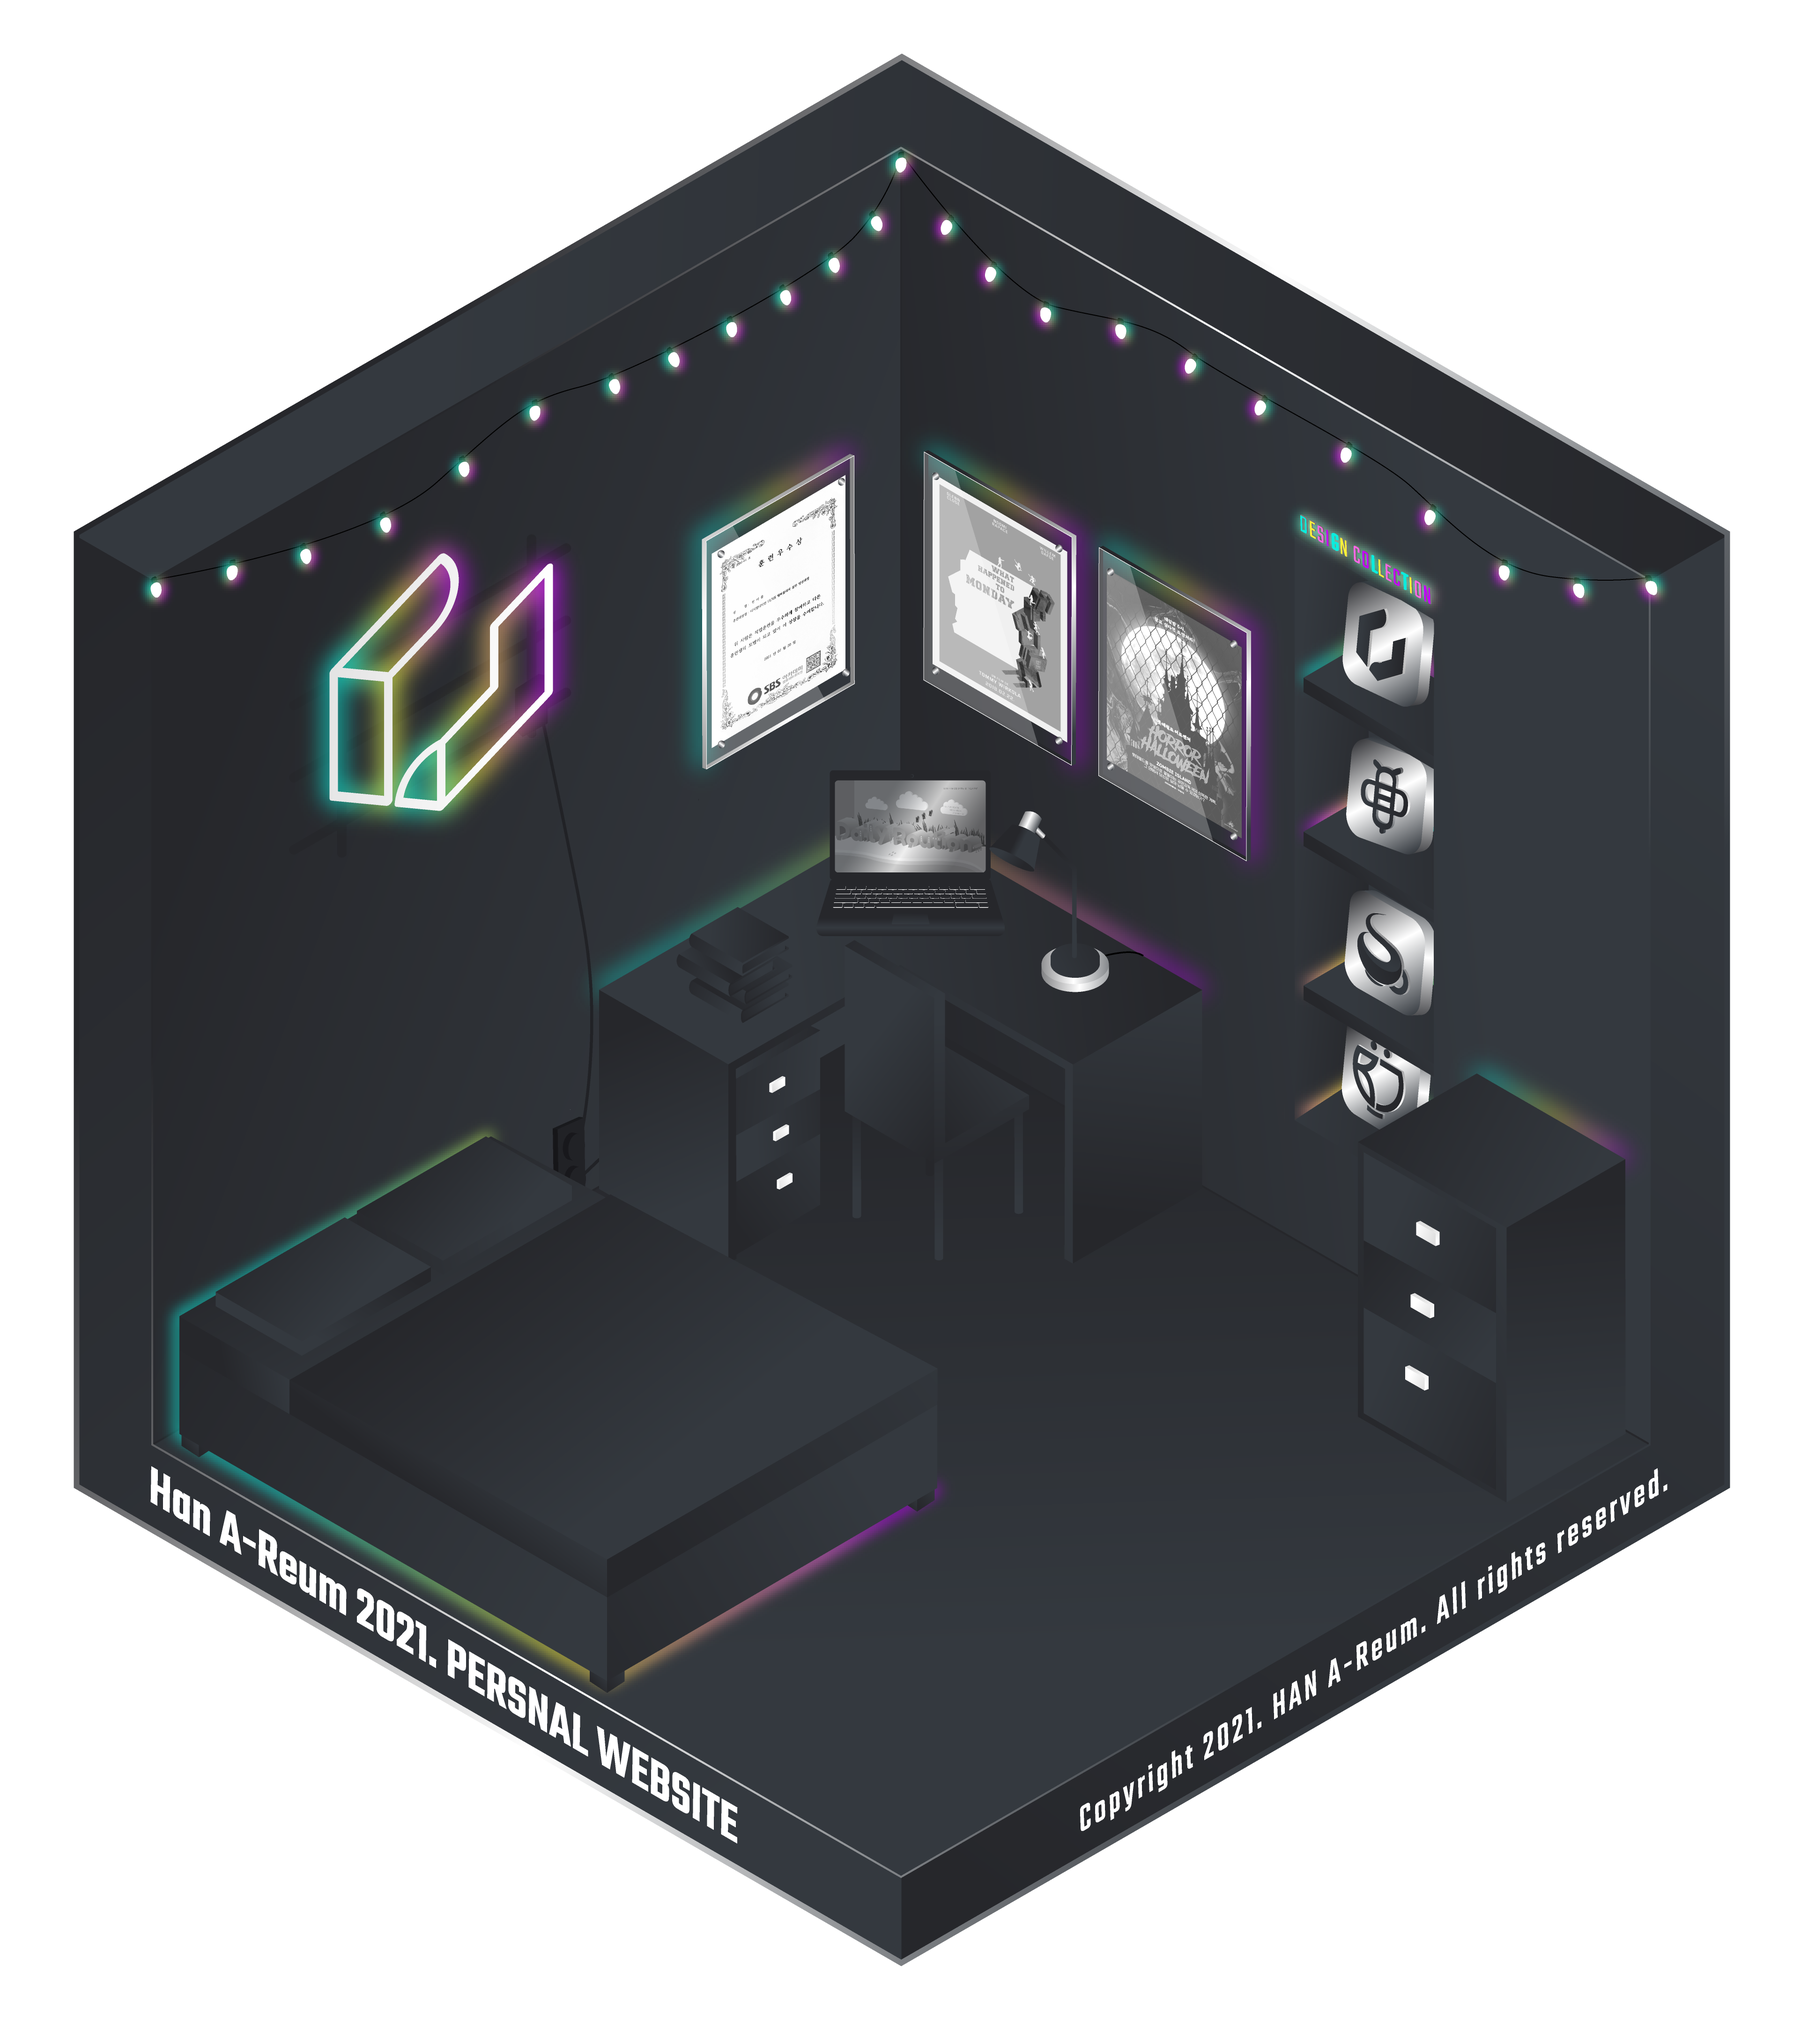
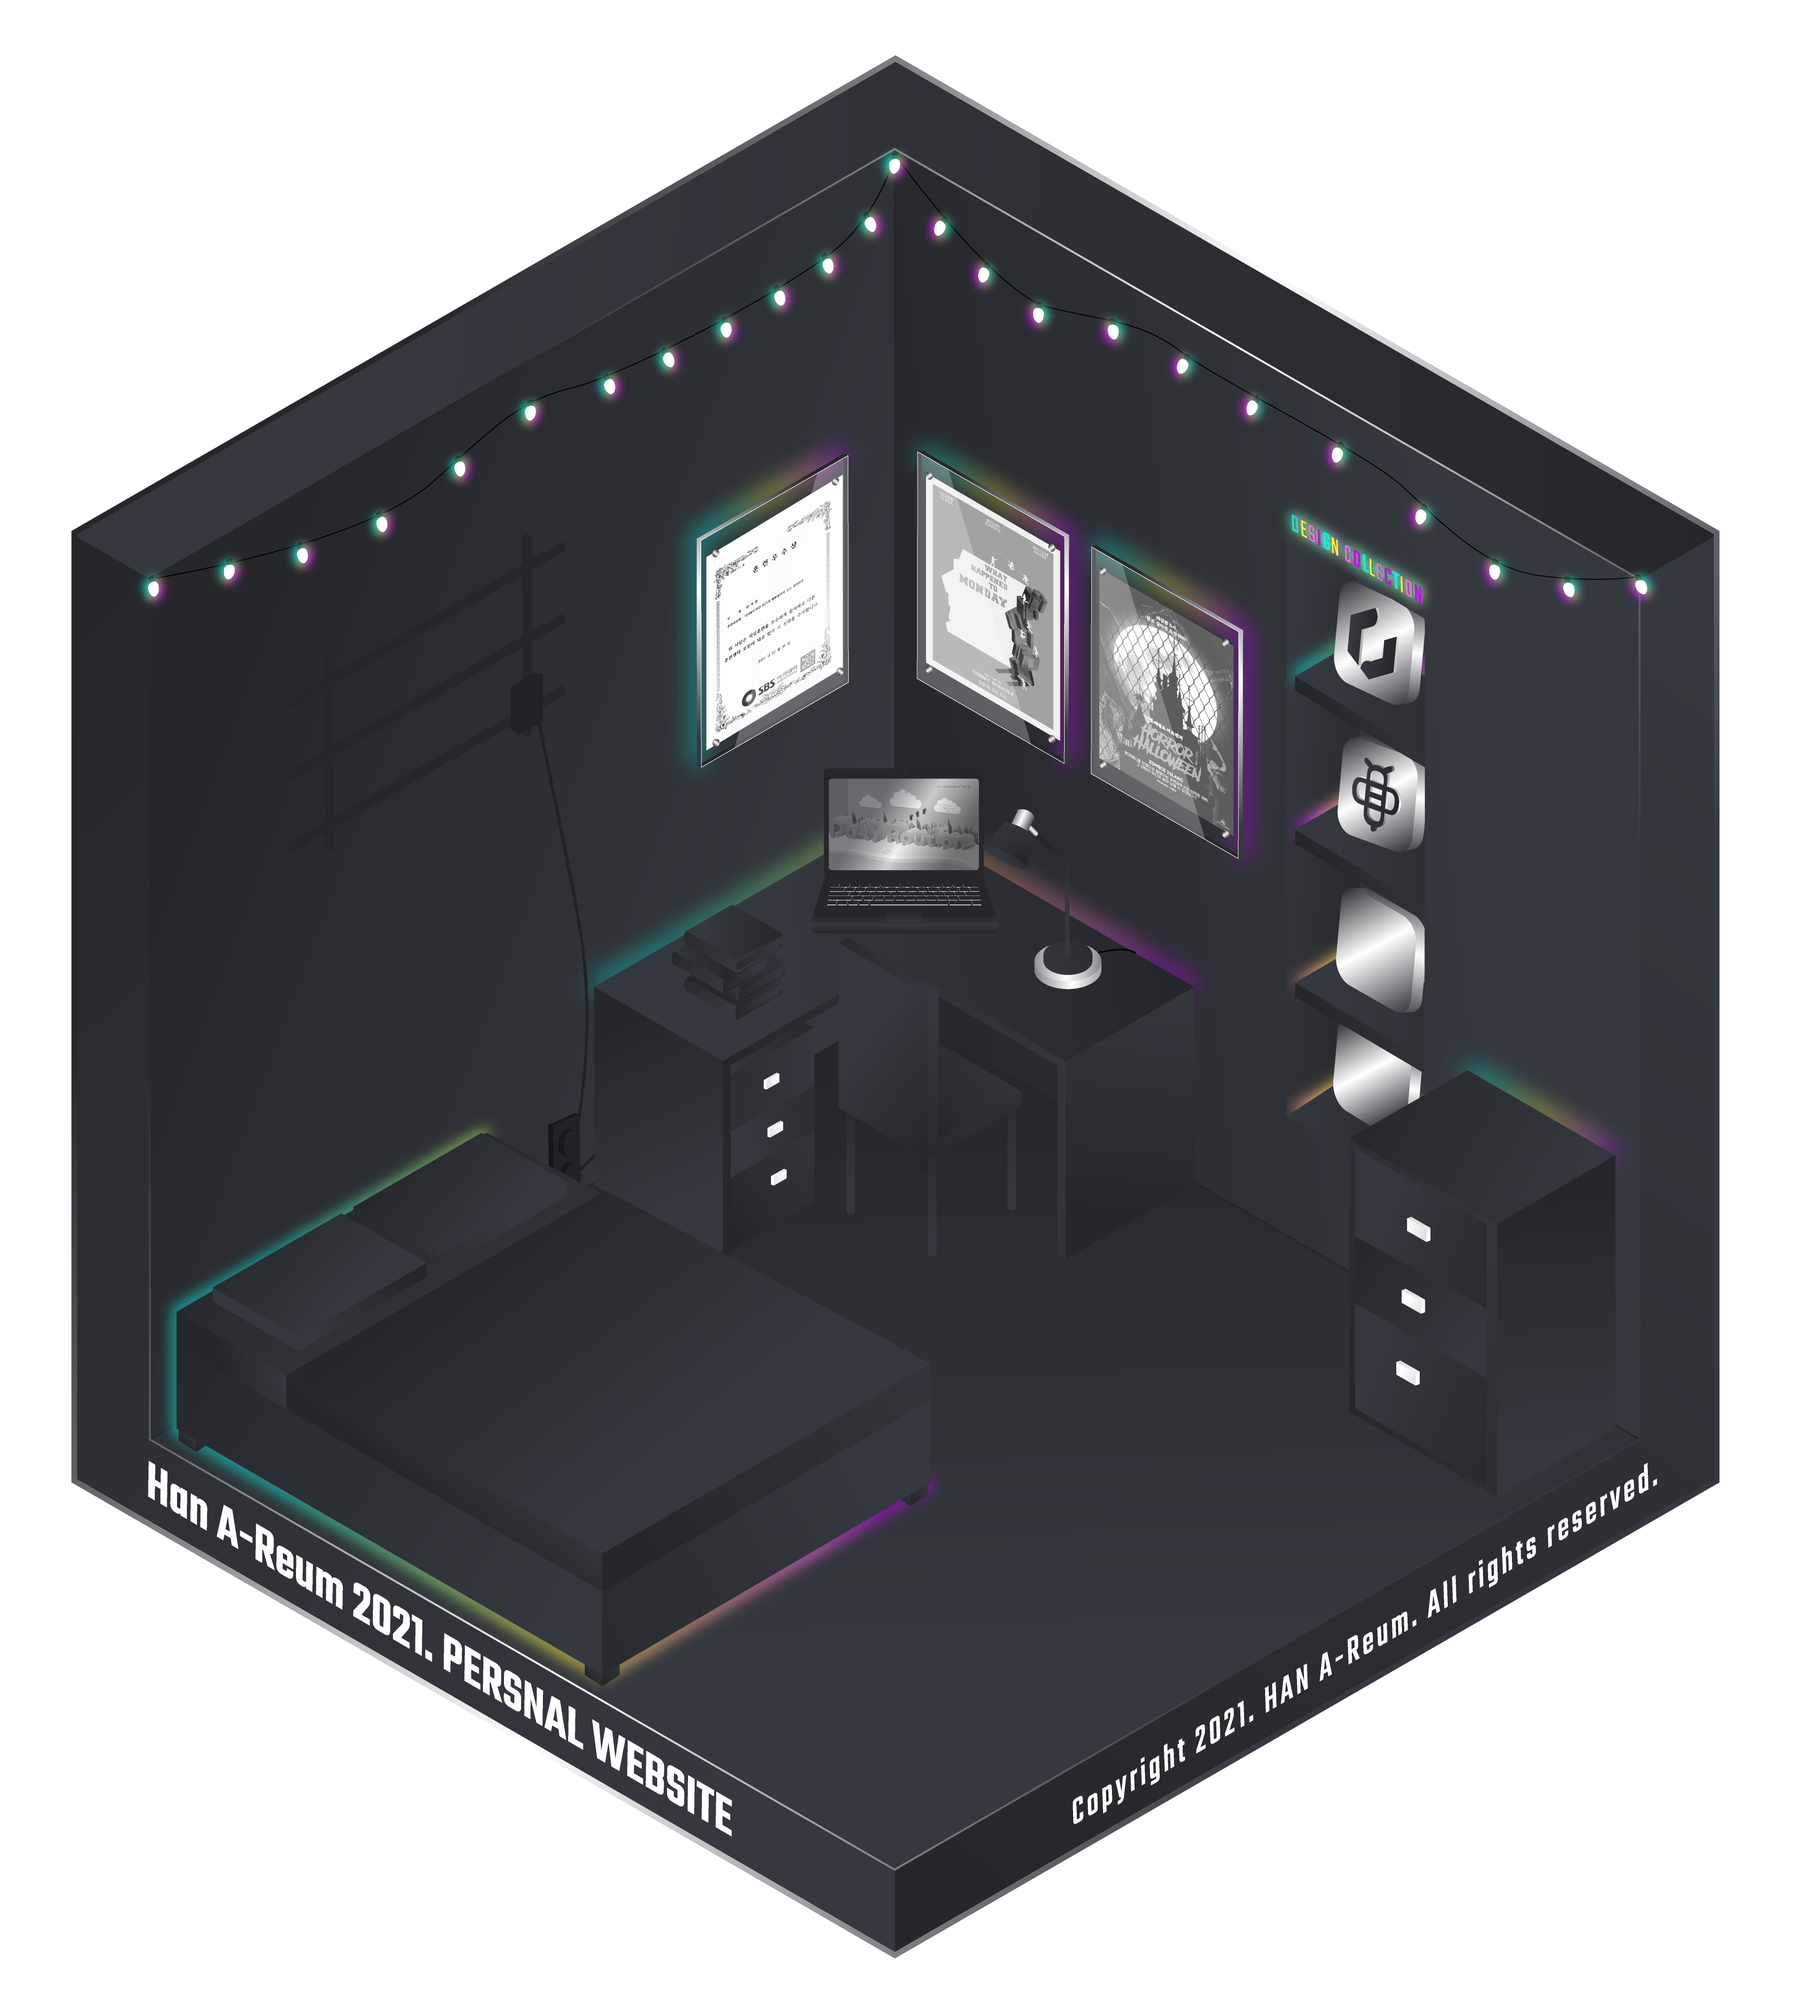
어바웃수정

diff --git a/resource/common.css b/resource/common.css
@@ -141,13 +141,13 @@ body {
 
 /* 스탠드 반짝반짝 */
 .blinking {
-  -webkit-animation: blink 0.7s ease-in-out infinite alternate;
-  -moz-animation: blink 0.7s ease-in-out infinite alternate;
-  animation: blink 0.7s ease-in-out infinite alternate;
+  -webkit-animation: blink 3s ease-in-out infinite alternate;
+  -moz-animation: blink 2s ease-in-out infinite alternate;
+  animation: blink 0.5s ease-in-out infinite alternate;
 }
 
 @-webkit-keyframes blink {
-  0% {
+  10% {
     opacity: 0;
   }
 
@@ -157,7 +157,7 @@ body {
 }
 
 @-moz-keyframes blink {
-  0% {
+  50% {
     opacity: 0;
   }
 
@@ -167,14 +167,15 @@ body {
 }
 
 @keyframes blink {
-  0% {
+  20% {
     opacity: 0;
   }
 
-  100% {
+  50% {
     opacity: 1;
   }
 }
+
 
 /* 스탠드 반짝반짝 끝 */
 
@@ -240,10 +241,17 @@ body {
 }
 
 /* 스탠드 불빛 */
-.bn_1_1_2 {
+.bn_1_1_0_2 {
   position: absolute;
-  top: calc(50% - 130px);
-  left: calc(50% - 90px);
+  top: calc(50% - 250px);
+  left: calc(50% - 320px);
+}
+
+.bn_1_1_0_1 {
+  border: 1px solid red;
+  position: absolute;
+  top: calc(50% - 250px);
+  left: calc(50% - 320px);
 }
 
 /* 다크 전등 스위치 */

diff --git a/index.ssg.php b/index.ssg.php
@@ -24,8 +24,8 @@ $pageCode = "home";
     <div class="box_1_1">
         <img class="bn_buttom_1 cursor-pointer" src="resource/img/bn_1_1_3.png" alt="">
         <img class="bn_1_1_0" src="resource/img/bn_1_1_0.png" alt="">
-        <div class="bn_1_1_2 image blinking"><img id="img_1_2" src="resource/img/bn_1_1_2.png" alt=""></div>
-        <div><img src="resource" alt=""></div>
+        <div class="bn_1_1_0_2 image blinking"><img src="resource/img/bn_1_1_0_2.png" alt=""></div>
+        <div class="bn_1_1_0_2"><img src="resource/img/bn_1_1_0_1.png" alt=""></div>
     </div>
     <!-- 메인 라이트하우스 -->
     <div class="box_1_2">
